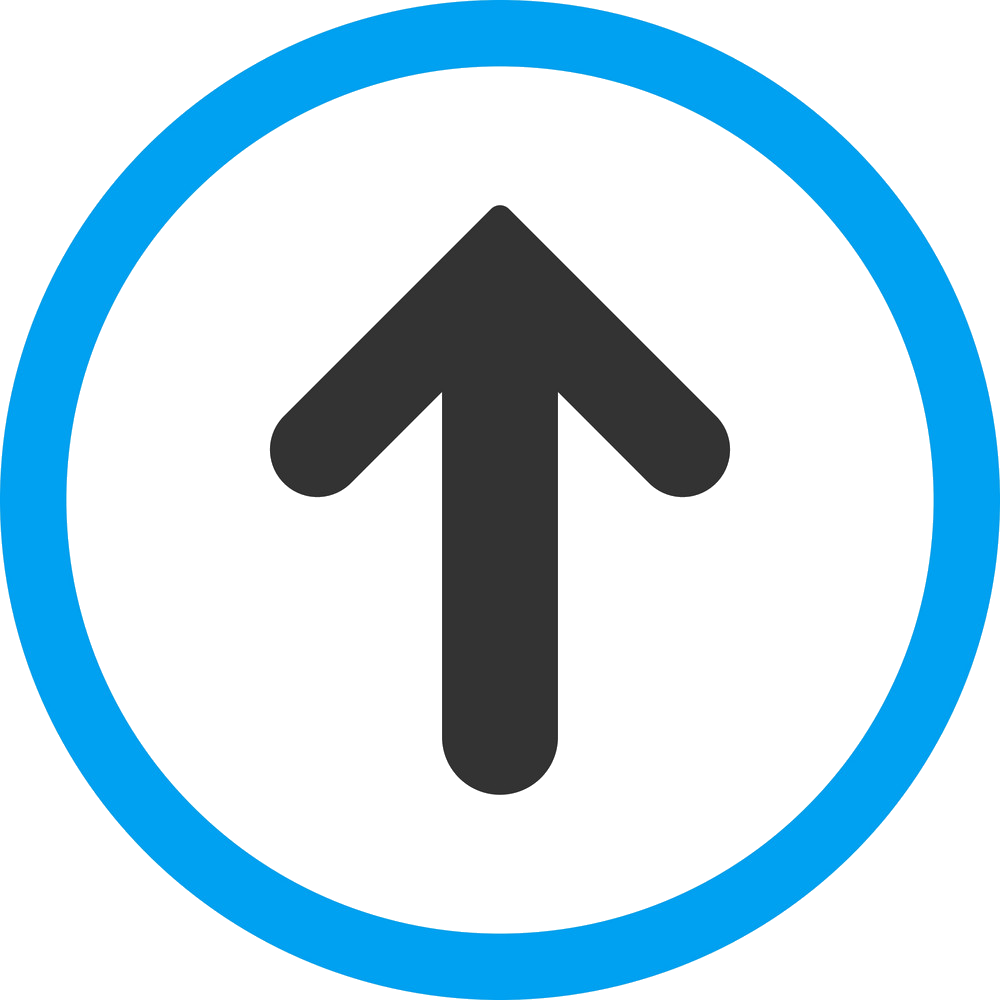
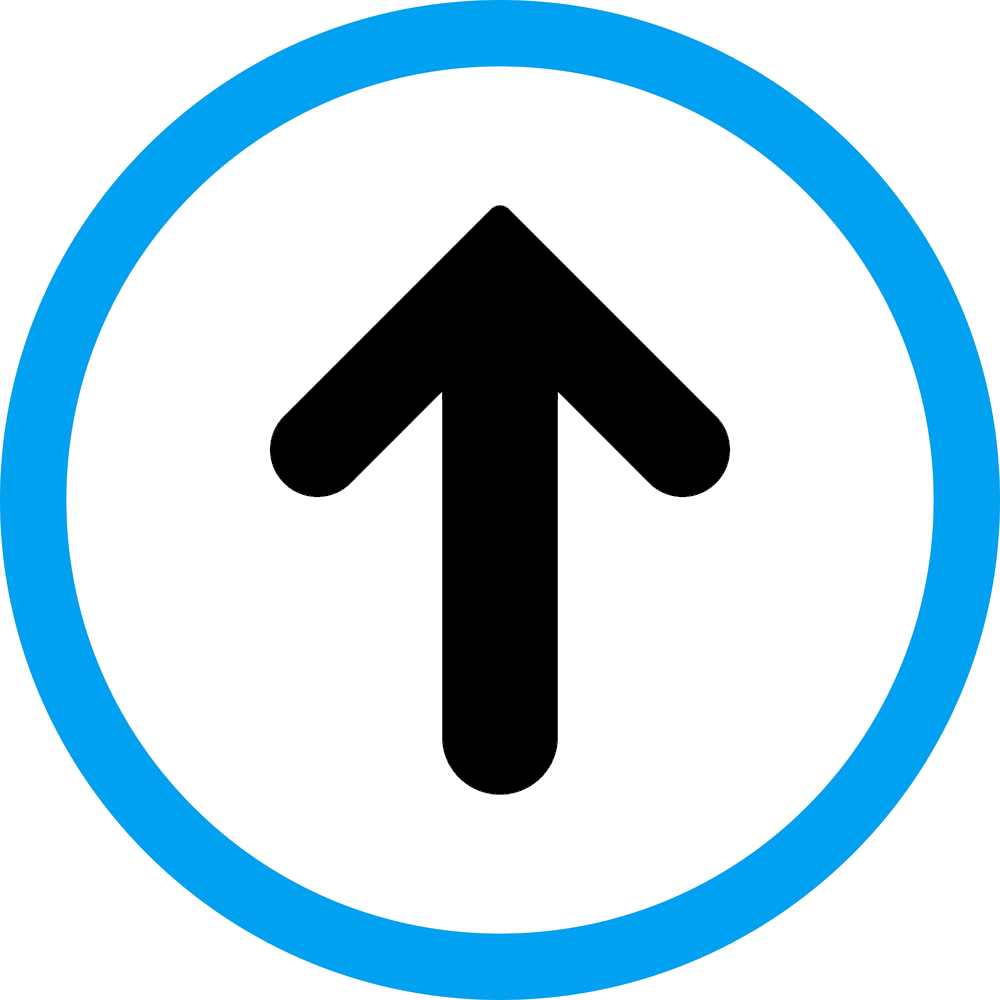
Tilføjet afsnit omkring gestaltlove. Tilføjet relevante kilder, og billeder. Fikset styling af til top knap (pilen er nu mere synlig). Fikset styling af menuen i toppen

Changed region(s): [[0.248, 0.186, 0.744, 0.806]]

diff --git a/Design.html b/Design.html
@@ -196,7 +196,7 @@
 
     </section>
 
-        <!-- Typografi start -->
+    <!-- Typografi start -->
     <button type="button" class="collapsible">Typografi</button>
     <section class="content">
         <ul>
@@ -365,7 +365,7 @@
                     <li id="li-tekst-style">Hvilken skrifttype skal min brødtekst, og undertitler have?
                     </li>
                     <li id="li-tekst-style">Hvor skal jeg bruge bold (fed skrift), italic (kursiv skrift) eller
-                            light (normal skrift)?</li>
+                        light (normal skrift)?</li>
 
 
 
@@ -375,18 +375,155 @@
 
         </ul>
     </section>
-        <!-- Typografi slut -->
+    <!-- Typografi slut -->
 
-        <!-- Gestaltlove start -->
+    <!-- Gestaltlove start -->
     <button type="button" class="collapsible">Gestaltlove</button>
     <section class="content">
 
         <ul>
+            Gestaltlovene handler alle sammen om at kunne se helheder, at hurtigt kunne spotte ligheder, patterns og
+            lignende. Menneskets hjerne er rigtig god til at fylde huller ud, med noget som den tror passer ind med
+            resten, og er også derfor at vi ser ansigter, former og figurer i noget som ellers ikke skulle forestille
+            dette. Hjerne prøver egentlig stort set at simplificere komplekse designs og billeder, ved at fylde alle
+            huller ud således at den får noget der er organiseret, og giver mening, i stedet for noget tilfældigt. Under
+            gestaltlovene findes der seks forskellige love og de er som følger:
+
+            <li id="nested-list">
+
+                <ul id="ul-tekst-style">
+
+                    <b>
+
+                        <li id="li-tekst-style">Similarity (Lighed)</li>
+                        <li id="li-tekst-style">Continuation (Kontinuation)</li>
+                        <li id="li-tekst-style">Closure (lukkethed)</li>
+                        <li id="li-tekst-style">Proximity (nærhed)</li>
+                        <li id="li-tekst-style">Figure/Ground</li>
+                        <li id="li-tekst-style">Symmetry and Order (symmetri og orden)</li>
+                        <li id="li-tekst-style">Common fate</li>
+
+
+
+                    </b>
+
+                </ul>
+
+            </li>
+
+            <hr>
+
+            <h4>Similarity (Lighed):</h4>
+            Når der snakkes om similarity, så snakkes der om visuelle elementer som er ens, hvad end det er i størrelse,
+            form, farve eller retning. Alt der går indenfor disse attributter, vil hjerne vælge at gruppere som en
+            gruppe. Farven er den bedste og stærkeste måde at skabe lighed på, eksempelvis så kan det bruges i link,
+            eller i navigation, for at understøtte at alle med lige præcis den farve, er en helhed. Man kan derfor i
+            design nemt fortælle en bruger på en hjemmeside, hvad det er der hører sammen, for så at gøre det nemt for
+            brugeren at danne sig et overblik over disse elementer. Dette vil selvfølgelig også være med til at gøre
+            bruget af sitet lettere og mere intuitivt. Eksempel på similarity:
+            <img src="Billeder/similarity.jpg" alt="">
+            <span id="source-tekst"> <b> <a id="direct-img" href="https://imgur.com/a/rkl7pZz">Direkte Link til
+                        similarity eksempel</a></b> </span>
+            <span id="source-tekst">
+                <b>Kilde: <a href="https://www.toptal.com/designers/ui/gestalt-principles-of-design">Klik her</a></b>
+            </span>
+
+            <hr>
+
+            <h4>Continuation (kontinuation):</h4>
+            Objekter der ser ud til at være kontinuere i en lang række eller bue, kalder vi for ”continuation”. I design
+            af en hjemmeside kunne de eksempelvis være paragraffer, billeder eller grafer (hvad end det er vertikale
+            eller horisontale). Denne form for brug af design, er med til at kommunikere kvalitet, og relation til
+            brugeren af sitet. Den hjælper også med at guide brugeren rundt, på en sti der er nem at følge. Eksempel på
+            continuation:
+            <img src="Billeder/continuation.jpg" alt="">
+            <span id="source-tekst"> <b> <a id="direct-img" href="https://imgur.com/a/l7R73Fs">Direkte Link til
+                        continuation eksempel</a></b> </span>
+            <span id="source-tekst">
+                <b>Kilde: <a href="https://www.toptal.com/designers/ui/gestalt-principles-of-design">Klik her</a></b>
+            </span>
+
+            <hr>
+
+            <h4>Closure (lukkethed):</h4>
+            Closure omhandler dele af figurer eller billeder som kommer sammen, eller som står tæt op af hinanden for at
+            kunne danne en helhed. Det er simpelthen ideen at hjernen skal kunne selv fylde hullerne ud i designet, for
+            så at kunne skave en helhed. Det er meget ofte brugt i logo design, da det er der man kan lade hjernen løbe
+            løbsk, med hvilket som helst design som det skulle være. Et eksempel på closure kunne se sådan her ud:
+            <img src="Billeder/closure.png" alt="">
+            <span id="source-tekst"> <b> <a id="direct-img" href="https://imgur.com/a/CIbojLd">Direkte Link til
+                        closure eksempel</a></b> </span>
+            <span id="source-tekst">
+                <b>Kilde: <a href="https://www.toptal.com/designers/ui/gestalt-principles-of-design">Klik her</a></b>
+            </span>
+
+            <hr>
+
+            <h4>Proximity (nærhed):</h4>
+            Her er objekter der er nære eller tætte på os opfattet som at være relateret, i en højere grad end objekter
+            der ligger langt væk. Det er faktisk ét af de første principper som rammer opfattelsesevnen i hjernen, og
+            ”vinder” over lighed i farver/kontrast. Ved at tilføje whitespace (mellemrum) mellem figurer og billeder, så
+            kan vi som designere separere dem fra hinanden, og mindske relationen. Omvendt kan vi øge relationen ved at
+            samle objekter sammen, og mindske mellemrummet imellem dem. Alt dette kan endda opnås uden brug af kasser,
+            eller grænser rundt om figurerne, billederne osv. Et eksempel på proximity kunne se sådan her ud:
+            <img src="Billeder/proximity.jpg" alt="">
+            <span id="source-tekst"> <b> <a id="direct-img" href="https://imgur.com/a/50Ex7qU">Direkte Link til
+                        proximity eksempel</a></b> </span>
+            <span id="source-tekst">
+                <b>Kilde: <a href="https://www.toptal.com/designers/ui/gestalt-principles-of-design">Klik her</a></b>
+            </span>
+
+            <hr>
+
+            <h4>Figure/Ground:</h4>
+            Figure/Ground princippet ligner meget closure idet at den tager fordel i at hjernen selv skal fylde hullerne
+            ud i designs og billeder osv. Her vil hjernen prøve at skelne mellem figurer og former der ligger både i
+            baggrunden og i forgrunden. Dette kan alt sammen blive meget brugbart idet at designeren kan vælge hvad der
+            skal være fokus på, på et website. Det kunne eksempelvis være en fade effekt, således at baggrunden blev
+            mere utydelig, imens forgrunden kommer frem i fokus. Et eksempel på denne lov kunne se sådan her ud:
+            <img src="Billeder/figure-ground.jpg" alt="">
+            <span id="source-tekst"> <b> <a id="direct-img" href="https://imgur.com/a/k7munXS">Direkte Link til
+                        figure/ground eksempel</a></b> </span>
+            <span id="source-tekst">
+                <b>Kilde: <a href="https://www.toptal.com/designers/ui/gestalt-principles-of-design">Klik her</a></b>
+            </span>
+
+            <hr>
+
+            <h4>Symmetry and Order (symmetri og orden eller prægnans):</h4>
+            Denne lov siger at hjernen vil prøve at opfatte figurer og former på en så simpel måde som muligt.
+            Eksempelvis så vil ringene i det olympiske symbol, opfattes som en kollektion af fem cirkler, i stedet for
+            tilfældige streger i buer. Ellers kunne man tage et logo jeg har brugt på forsiden for ”Design” kategorien.
+            Selvom figurerne overlapper, så kan man sagtens se at designet er lavet ud af en trekant, en firkant og en
+            cirkel. Her er endnu et eksempel på symmetry and order:
+            <img src="Billeder/symmetry and order.png" alt="">
+            <span id="source-tekst"> <b> <a id="direct-img" href="https://imgur.com/a/cNx4UKk">Direkte Link til
+                        symmetry and order eksempel</a></b> </span>
+            <span id="source-tekst">
+                <b>Kilde: <a href="https://www.toptal.com/designers/ui/gestalt-principles-of-design">Klik her</a></b>
+            </span>
+
+            <hr>
+
+            <h4>Common fate:</h4>
+            Common fate var faktisk ikke med i gestalt teorien til at starte med, men man har siden da valgt at
+            inkludere den med i UX-design. Loven siger at folk vil prøve at gruppere ting der ser ud til at vende den
+            samme vej, og som har den samme retning (bevægelse). Dette kan også ses i vores natur som vi allerede kender
+            den, og kunne eksempelvis være en flok fugle som flyver i formation i samme retning, eller en masse fisk som
+            svømmer i samme retning. Her er et eksempel på common fate:
+            <img src="Billeder/common fate eksempel.png" alt="">
+            <span id="source-tekst"> <b> <a id="direct-img" href="https://imgur.com/a/XteYkIN">Direkte Link til
+                        common fate eksempel</a></b> </span>
+            <span id="source-tekst">
+                <b>Kilde: Lavet af Ahmad Azzam</b>
+            </span>
+
+        
 
         </ul>
 
     </section>
-         <!-- Gestaltlove start -->
+    <!-- Gestaltlove slut -->
 
 
 

diff --git a/stylesheet.css b/stylesheet.css
@@ -22,6 +22,9 @@ body {
     ;
 }
 
+.front-page-container {
+    border-top: 1px solid black;
+}
 
 #HCL {
     grid-area: HCL;
@@ -44,9 +47,6 @@ body {
     grid-area: Kilder;
 }
 
-.front-page-container {
-    border-top: 1px solid black;
-}
 
 /* Styling af grid på forsiden slut */
 
@@ -173,7 +173,7 @@ span {
 
 /* Syling af tekst slut */
 
-/* Styling af baggrunden til menuen */
+/* Styling af baggrunden til menuen start */
 ul {
     width: 100%;
     background-color: #333;
@@ -188,6 +188,13 @@ ul {
 section>ul{
     margin-top: 20px;
 }
+
+nav>ul{
+
+border: 1px solid black;
+
+}
+/* Styling af baggrunden til menuen slut */
 
 
 /* Styling af kilde links start */

diff --git a/Kilder.html b/Kilder.html
@@ -407,6 +407,23 @@
 
         </ul>
 
+        <ul id="ul-tekst-style">
+            <h2>Gestaltlove </h2>
+            <hr>
+            <b>
+
+                <li id="li-tekst-style">https://www.toptal.com/designers/ui/gestalt-principles-of-design</li>
+                <li id="li-tekst-style">http://informatik-gym.dk/glossary/gestaltlove/</li>
+                <li id="li-tekst-style">05_gestaltlovene.pdf</li>
+
+
+            </b>
+
+
+
+
+        </ul>
+
     </section>
 
 
